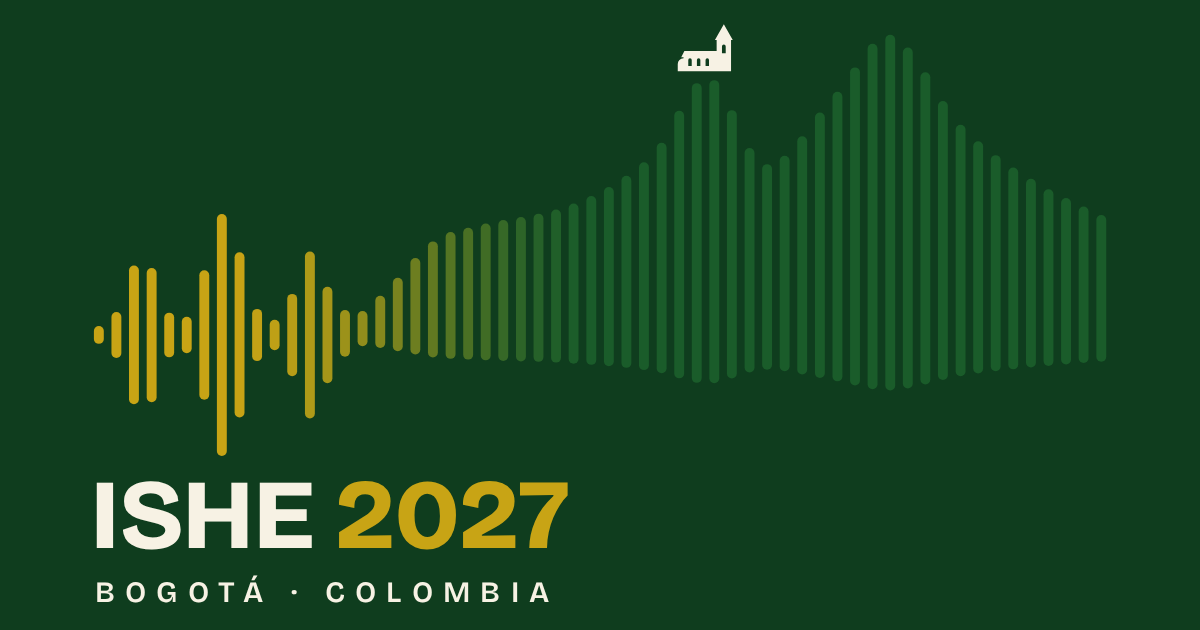
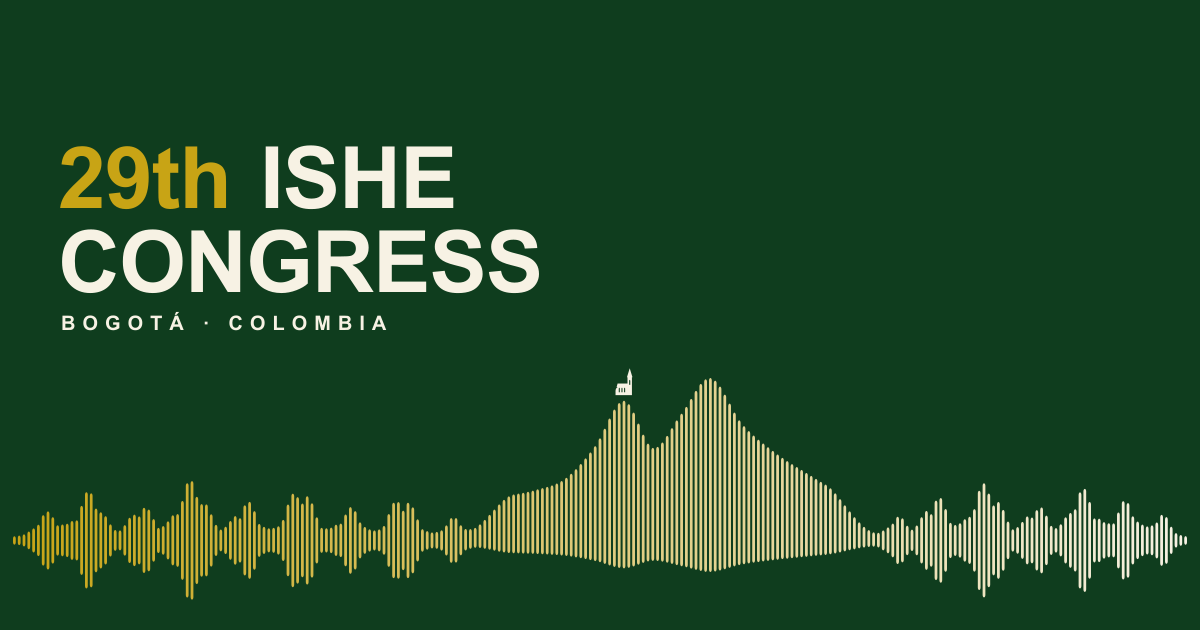
New congress name: 29th ISHE Congress

Changed region(s): [[0.0, 0.0302, 0.9867, 0.9651], [0.0308, 0.2111, 0.4008, 0.3317]]

diff --git a/src/data/site.ts b/src/data/site.ts
@@ -2,8 +2,8 @@
 // Change it here and it changes across the whole site.
 
 export const site = {
-  name: 'ISHE Congress 2027',
-  shortName: 'ISHE 2027',
+  name: '29th Congress of the International Society for Human Ethology',
+  shortName: '29th ISHE Congress',
   city: 'Bogotá',
   country: 'Colombia',
 

diff --git a/src/content/pages/about/index.md b/src/content/pages/about/index.md
@@ -1,7 +1,7 @@
 ---
 title: About the congress
 navTitle: About
-description: ISHE 2027 brings the International Society for Human Ethology to Colombia, with a new format that joins the congress and the student workshops in a single meeting.
+description: The 29th ISHE Congress brings the International Society for Human Ethology to Colombia, with a new format that joins the congress and the student workshops in a single meeting.
 updated: 2026-10-10
 ---
 

diff --git a/src/content/pages/programme/plenary-speakers.md b/src/content/pages/programme/plenary-speakers.md
@@ -1,6 +1,6 @@
 ---
 title: Plenary speakers
-description: The plenary lectures of ISHE 2027, announced as each speaker is confirmed.
+description: The plenary lectures of the 29th ISHE Congress, announced as each speaker is confirmed.
 order: 1
 status: soon
 updated: 2026-10-09

diff --git a/src/content/news/2026-10-09-ishe-2027-in-bogota.md b/src/content/news/2026-10-09-ishe-2027-in-bogota.md
@@ -1,5 +1,5 @@
 ---
-title: ISHE 2027 will take place in Bogotá
+title: The 29th ISHE Congress will take place in Bogotá
 date: 2026-10-09
 summary: The next congress of the International Society for Human Ethology will be held in Bogotá, Colombia, from 5 to 9 July 2027.
 ---

diff --git a/src/content/pages/registration/index.md b/src/content/pages/registration/index.md
@@ -1,6 +1,6 @@
 ---
 title: Registration
-description: Fees, what they include and how to register for ISHE 2027.
+description: Fees, what they include and how to register for the 29th ISHE Congress.
 status: soon
 updated: 2026-10-09
 include: [key-dates]

diff --git a/src/content/pages/about/contact.md b/src/content/pages/about/contact.md
@@ -1,6 +1,6 @@
 ---
 title: Contact
-description: How to reach the organisers of ISHE 2027.
+description: How to reach the organisers of the 29th ISHE Congress.
 order: 1
 status: soon
 updated: 2026-10-09
